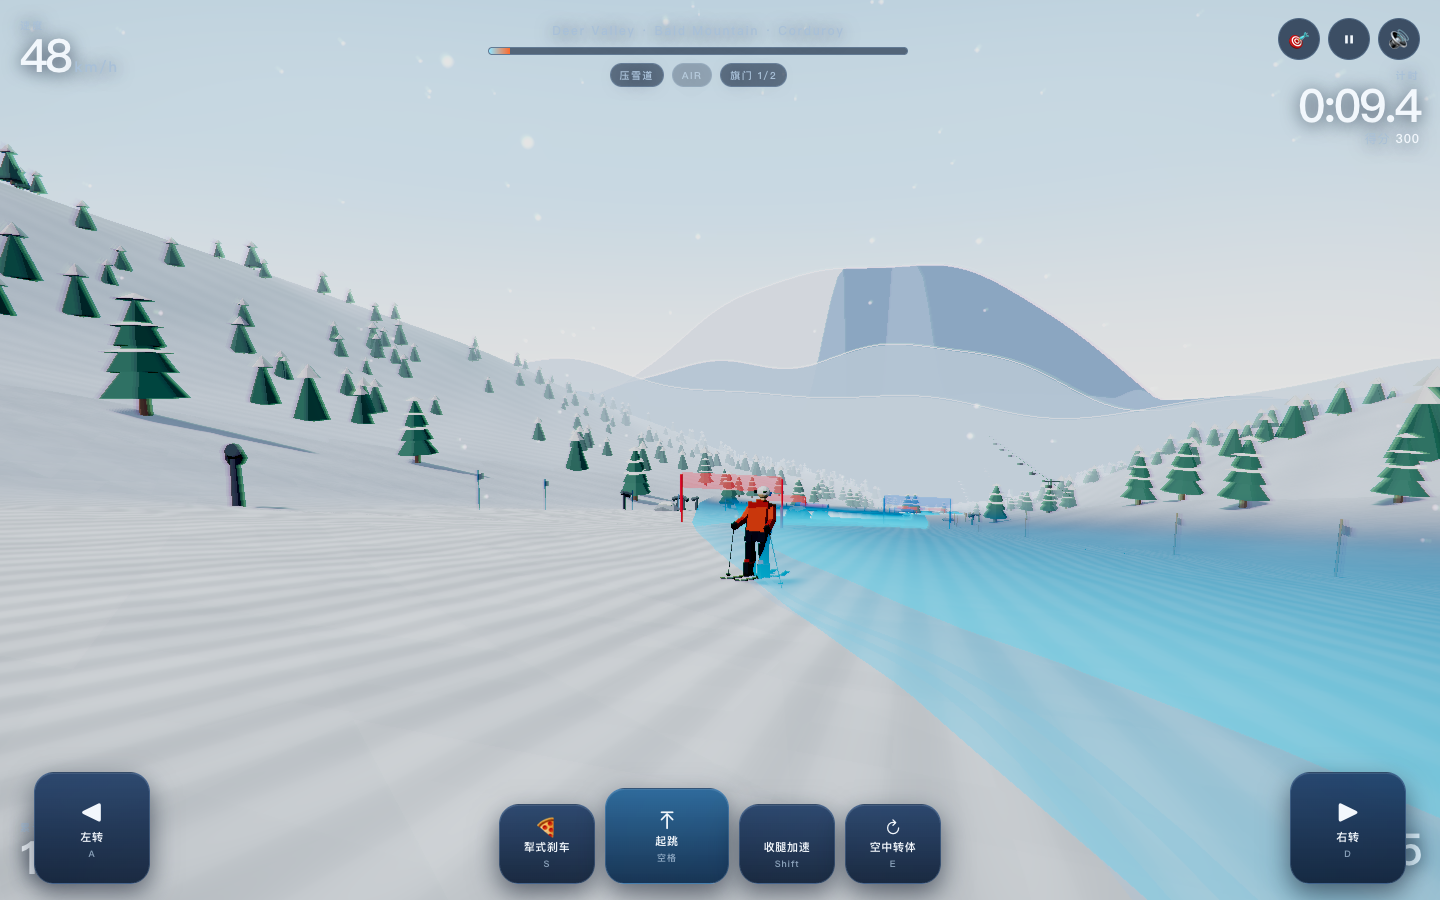
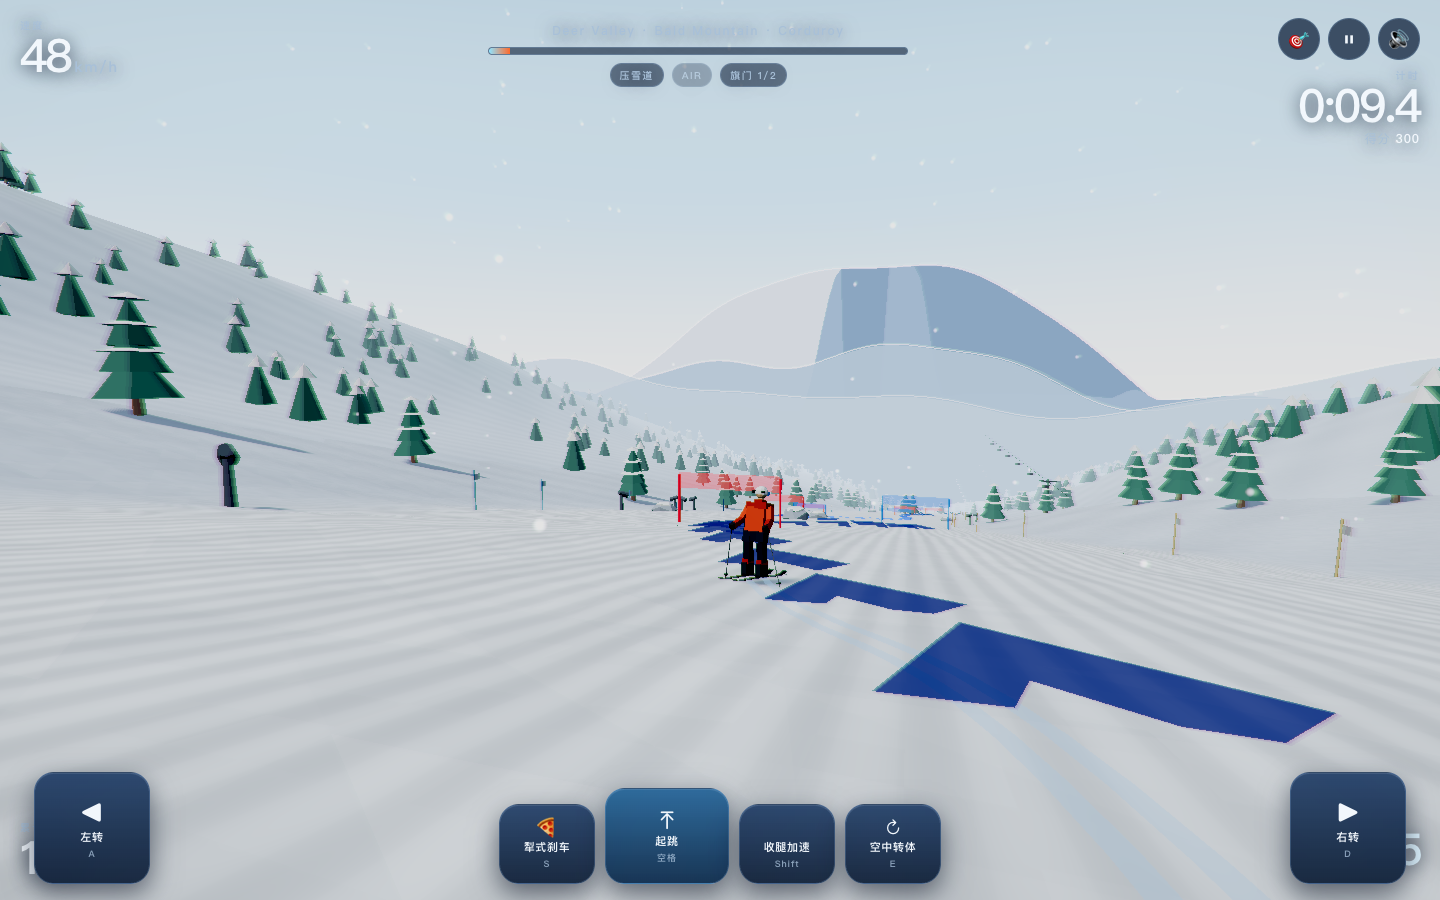
Redesign the optimal line as flat deep-blue ground arrows
Per user request, replace the floating glowing ribbon with a row of flat
DIRECTION ARROWS painted on the snow:
- world.js buildIdealLine(): chevron ShapeGeometry arrows placed every ~6m
  along the (retained) ideal spline, laid flat on the surface, yawed to the
  local tangent so each points downhill toward the next gate. Merged into one
  mesh with an aSeq attribute driving a deep-blue -> brighter-blue pulse that
  travels down the trail. polygonOffset avoids z-fighting with the snow.
- idealCurve kept, so lineInfo()/gate-threading QA is unchanged.
- Deep-blue palette (0x14357a base, 0x4f8bff pulse) per user's colour choice.
- ui.js + README wording updated (arrows, not a glowing band).

QA 91/91 PASS; screenshots re-recorded.

diff --git a/src/world.js b/src/world.js
@@ -544,11 +544,12 @@ export class World {
   /* --------------------------------------------------------- ideal line */
 
   /**
-   * The "optimal line": a smooth spline that threads every slalom gate from the start
-   * ramp to the finish, drawn as a glowing ribbon that hugs the snow. It is precomputed
-   * from planChunkGates() (deterministic, same coordinates the gate meshes use), so it is
-   * complete the moment the run loads and never depends on chunk streaming. Players can
-   * hide it with the on-screen 走线 toggle / the L key.
+   * The "optimal line": a smooth spline that threads every slalom gate from the start ramp
+   * to the finish. Instead of a floating ribbon it is drawn as a row of flat DIRECTION
+   * ARROWS painted on the snow, each lying flat on the surface and pointing downhill toward
+   * the next gate. Precomputed from planChunkGates() (deterministic, same coordinates the
+   * gate meshes use) so it is complete the moment the run loads and never depends on chunk
+   * streaming. Toggle with the on-screen 🎯 button / the L key.
    */
   buildIdealLine() {
     const t = this.terrain;
@@ -565,54 +566,87 @@ export class World {
     this.idealLinePts = pts;
     if (pts.length < 2) { this.idealLine = null; return; }
 
-    // smooth spline through the gate centres, sampled densely and dropped onto the snow
+    // smooth spline through the gate centres, sampled densely (kept for lineInfo + arrow placement)
     const ctrl = pts.map((p) => new THREE.Vector3(p.x, 0, p.z));
     const curve = new THREE.CatmullRomCurve3(ctrl, false, 'catmullrom', 0.5);
     const samples = Math.max(48, Math.min(900, pts.length * 10));
     const path = [];
     for (let i = 0; i <= samples; i++) {
       const v = curve.getPoint(i / samples);
-      v.y = t.elevation(v.x, v.z) + 0.45; // hover just above the surface
+      v.y = t.elevation(v.x, v.z);
       path.push(v);
     }
     this.idealCurve = new THREE.CatmullRomCurve3(path, false, 'catmullrom', 0.5);
 
-    const geo = new THREE.TubeGeometry(this.idealCurve, samples, 1.35, 8, false);
+    // --- a chevron arrow footprint, lying flat (XZ plane), tip pointing to -Z (downhill)
+    const AL = 2.6, AW = 2.2, TH = 1.1; // length, half-width, tail thickness
+    const shape = new THREE.Shape();
+    shape.moveTo(0, -AL * 0.5);          // tip (downhill, -Z)
+    shape.lineTo(AW, AL * 0.32);         // right wing
+    shape.lineTo(AW - TH, AL * 0.5);     // right inner
+    shape.lineTo(0, AL * 0.5 - TH * 1.1);// notch
+    shape.lineTo(-(AW - TH), AL * 0.5);  // left inner
+    shape.lineTo(-AW, AL * 0.32);        // left wing
+    shape.closePath();
+    const arrow2d = new THREE.ShapeGeometry(shape); // in XY, +Y = uphill tail
+
+    const total = this.idealCurve.getLength();
+    const STEP = 6.0;                       // metres between arrows
+    const count = Math.max(2, Math.floor(total / STEP));
+    const geos = [];
+    const up = new THREE.Vector3(0, 1, 0);
+    const q = new THREE.Quaternion();
+    const m = new THREE.Matrix4();
+    for (let i = 0; i < count; i++) {
+      const u = i / (count - 1);
+      const p = this.idealCurve.getPointAt(u);
+      const tan = this.idealCurve.getTangentAt(u).normalize(); // points downhill (-Z-ish)
+      const g = arrow2d.clone();
+      // lay flat: XY-shape -> XZ-plane (rotate -90° about X), then yaw to face the tangent
+      const yaw = Math.atan2(tan.x, tan.z); // heading in XZ
+      m.makeRotationX(-Math.PI / 2);
+      q.setFromAxisAngle(up, yaw);
+      const mm = new THREE.Matrix4().makeRotationFromQuaternion(q).multiply(m);
+      mm.setPosition(p.x, t.elevation(p.x, p.z) + 0.12, p.z); // sit on the snow
+      g.applyMatrix4(mm);
+      // per-vertex sequence so the highlight can travel down the trail of arrows
+      const n = g.attributes.position.count;
+      const seq = new Float32Array(n).fill(i / count);
+      g.setAttribute('aSeq', new THREE.BufferAttribute(seq, 1));
+      geos.push(g);
+    }
+    const geo = mergeGeometries(geos, false);
+
     const uniforms = {
       uTime: { value: 0 },
-      uColor: { value: new THREE.Color(0x18c8ff) },
-      uEdge: { value: new THREE.Color(0x0a3a6b) },
+      uColor: { value: new THREE.Color(0x14357a) },   // deep blue
+      uHi: { value: new THREE.Color(0x4f8bff) },       // brighter pulse crest
     };
     const mat = new THREE.ShaderMaterial({
       transparent: true,
       depthWrite: false,
-      // Normal alpha blend, not additive: on near-white snow additive barely shows. We want
-      // a saturated painted guide line that clearly reads against the piste.
-      blending: THREE.NormalBlending,
       side: THREE.DoubleSide,
+      polygonOffset: true,          // keep the decal off the snow z-buffer
+      polygonOffsetFactor: -2,
+      polygonOffsetUnits: -2,
       uniforms,
       vertexShader: `
-        varying vec2 vUv;
+        attribute float aSeq;
+        varying float vSeq;
         void main() {
-          vUv = uv;
+          vSeq = aSeq;
           gl_Position = projectionMatrix * modelViewMatrix * vec4(position, 1.0);
         }`,
       fragmentShader: `
         uniform float uTime;
         uniform vec3 uColor;
-        uniform vec3 uEdge;
-        varying vec2 vUv;
+        uniform vec3 uHi;
+        varying float vSeq;
         void main() {
-          // fade the tube's cross-section so the band has a soft dark rim + bright core
-          float core = smoothstep(0.0, 0.32, vUv.y) * smoothstep(1.0, 0.68, vUv.y);
-          float rim  = smoothstep(0.0, 0.12, vUv.y) * smoothstep(1.0, 0.88, vUv.y);
-          // chevrons flowing downhill along the line
-          float flow = sin((vUv.x * 55.0) - uTime * 4.0);
-          float chev = smoothstep(0.15, 0.9, flow);
-          vec3 col = mix(uEdge, uColor, core);
-          col = mix(col, vec3(0.85, 0.98, 1.0), chev * core * 0.7);
-          float a = rim * (0.55 + 0.4 * chev);
-          gl_FragColor = vec4(col, a);
+          // a bright pulse travels downhill along the arrow trail
+          float wave = 0.5 + 0.5 * sin((vSeq * 34.0) - uTime * 3.2);
+          vec3 col = mix(uColor, uHi, pow(wave, 2.0));
+          gl_FragColor = vec4(col, 0.9);
         }`,
     });
     const mesh = new THREE.Mesh(geo, mat);

diff --git a/src/ui.js b/src/ui.js
@@ -112,7 +112,7 @@ export class UI {
           <li><span class="ico">⤒</span><kbd>Space</kbd><em>起跳</em><span class="tip">配合台跳飞更远</span></li>
           <li><span class="ico">↓</span><kbd>Shift</kbd><em>收腿加速</em><span class="tip">低姿态减风阻</span></li>
           <li><span class="ico">↻</span><kbd>Q</kbd><kbd>E</kbd><em>空中转体</em><span class="tip">只在腾空时生效，落地要收正</span></li>
-          <li><span class="ico">🎯</span><kbd>L</kbd><em>最优走线</em><span class="tip">发光带贴着雪面穿过所有旗门，可随时开关</span></li>
+          <li><span class="ico">🎯</span><kbd>L</kbd><em>最优走线</em><span class="tip">雪面上的深蓝箭头指向下一个旗门，可随时开关</span></li>
           <li><span class="ico">⏸</span><kbd>P</kbd> / <kbd>R</kbd><em>暂停 / 重滑</em><span class="tip">方向键 ← → ↓ 与 A/S/D 等价</span></li>
         </ul>
         <p class="key-goal">目标：过旗门连击拿分，别撞树石冰塔，尽量压着目标时间冲线。</p>

diff --git a/README.md b/README.md
@@ -39,12 +39,14 @@ python3 -m http.server 8099 --bind 127.0.0.1
 区段边缘平滑淡入淡出。物理上，冲得越快雪包越"拍"你（`physics` 里按 `mogulIntensity`
 加摩擦与掉速），逼你用犁式或收腿吸收节奏——手感是真实的。
 
-### 最优滑雪路径（走线）
+### 最优滑雪路径（地面箭头）
 
-一条发光的青蓝色引导带贴着雪面，从起点平滑地穿过**每一个旗门**直到终点，带有向下
-流动的箭纹。它由 `world.buildIdealLine()` 用与旗门完全相同的确定性坐标
-（`planChunkGates`）预计算成 Catmull-Rom 样条，所以开局即完整、不依赖分块流式加载，
-也永远精确压在门上。用屏幕 🎯 按钮或 `L` 键随时开关（默认开，老手可关）。
+一排**深蓝色的方向箭头平铺在雪面上**（不发光、不悬空，像雪道上刷的路标），沿最优线
+间隔排列，每个箭头都躺平贴着地形、指向下一个旗门，还有一道高亮脉冲顺着箭头列向下流动。
+它由 `world.buildIdealLine()` 用与旗门完全相同的确定性坐标（`planChunkGates`）预计算成
+Catmull-Rom 样条，再沿样条每 ~6m 放一个箭头贴片（`ShapeGeometry` + `polygonOffset` 防
+z-fighting），所以开局即完整、不依赖分块流式加载，也永远精确压在门上。用屏幕 🎯 按钮或
+`L` 键随时开关（默认开，老手可关）。
 
 ### 双板，不是单板
 
